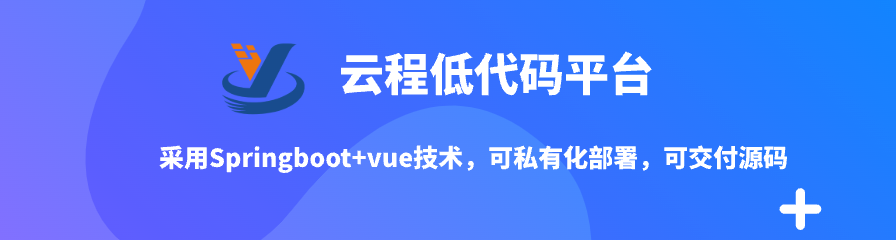
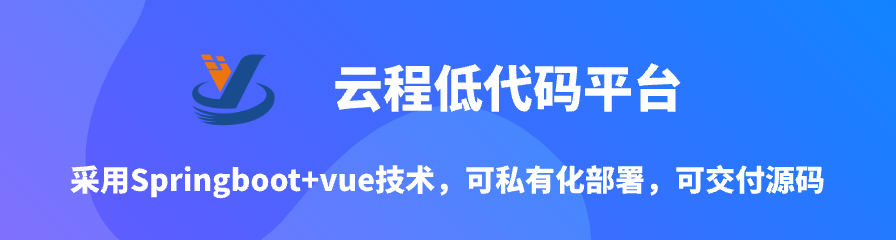
submit

Changed region(s): [[0.0625, 0.5833, 0.9375, 0.9625], [0.375, 0.2042, 0.7812, 0.4667], [0.1875, 0.175, 0.3438, 0.525]]

diff --git a/docs/index.md b/docs/index.md
@@ -72,7 +72,7 @@ notices: # 可选的
   desc: 采用springboot+vue技术，可私有化部署，可交付源代码
   avatar: /img/donate/yuncheng.png
   link: http://www.yunchengxc.com/
-  bgColor: '#1C58E6'
+  bgColor: '#A6A1F3'
   textColor: '#FFFFFF'
   expired: '2023-10-27'
 
